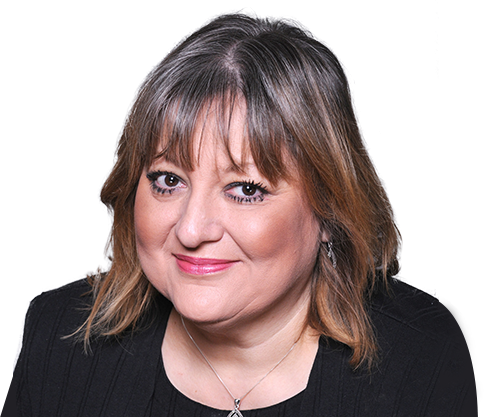
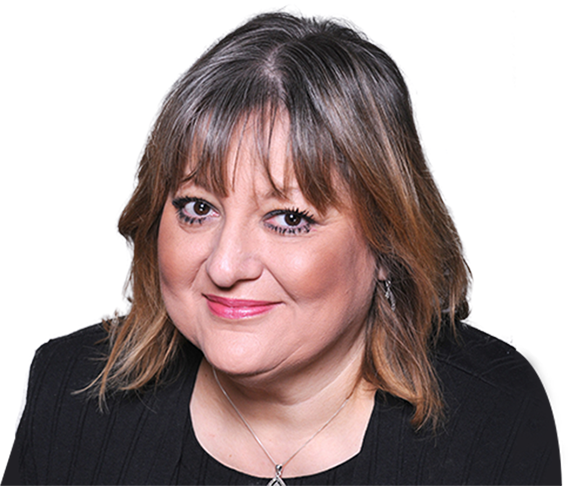
changed header grid and hero image. Also testing pull from remote

diff --git a/header.php b/header.php
@@ -49,14 +49,14 @@
 					</nav>
 					<!-- /nav -->
 					<div class="page-wrapper pad-30px">
-						<div class="col-1-2 p-l pad-l-50px">
+						<div class="col-2-5 p-l pad-l-50px">
 							<div class="frame caption-1 txt-c">
 								<span class="headline-1">Kids Can't Vote</span>
 								<span class="headline-2">But You Can!</span>
 							</div>
 							<a href="#" class="btn-1 button">Get Involved</a>
 						</div>
-						<div class="col-1-2 p-l">
+						<div class="col-3-5 p-l">
 							<img src="<?php echo get_template_directory_uri(); ?>/img/hero.png" alt="Debe Campos-Fleenor">
 						</div>
 
